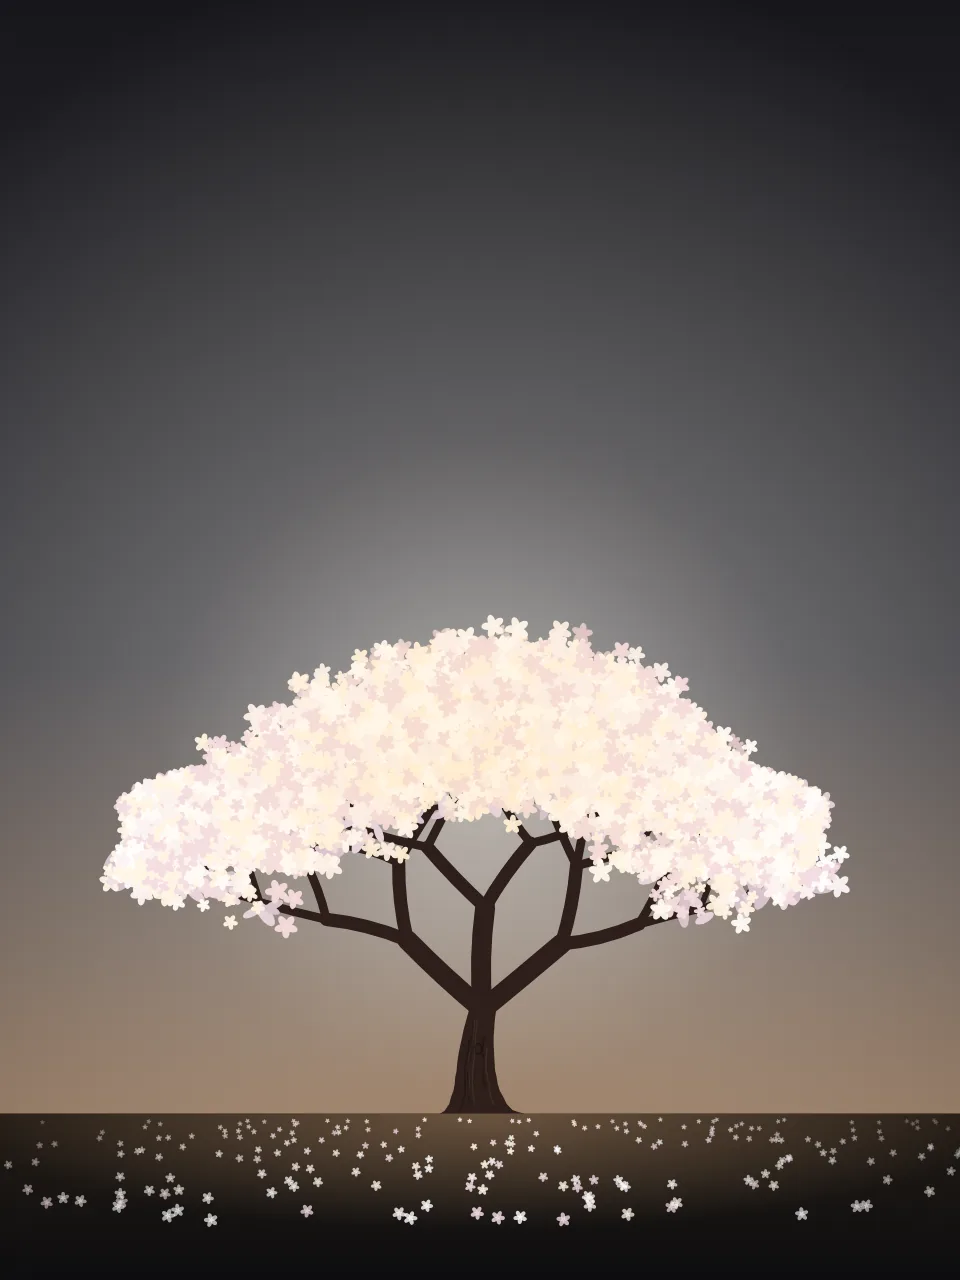
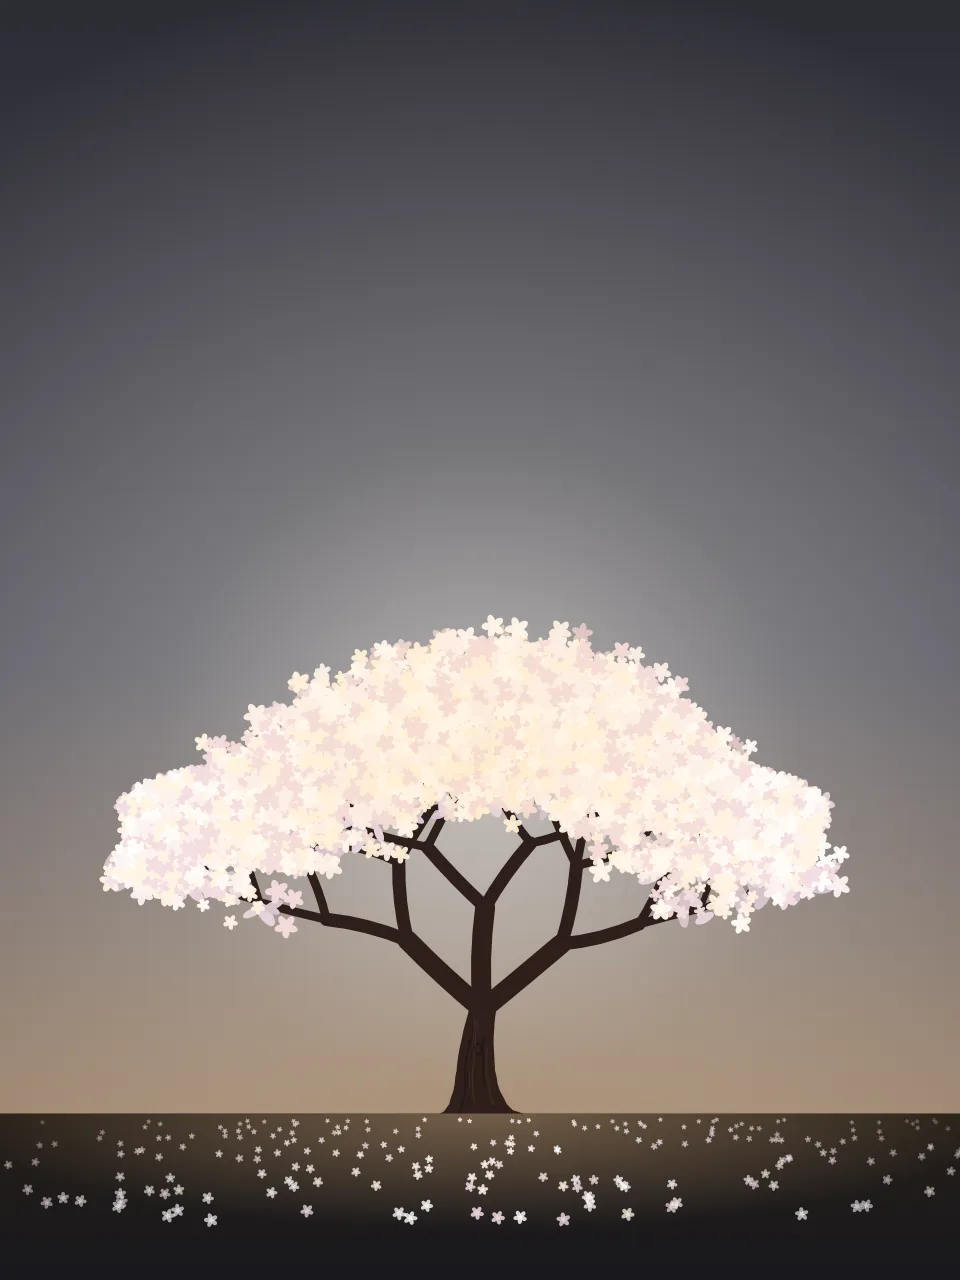
Negro y Blanco bien distintos: Negro de día con cielo casi negro (portada con letra clara); Blanco de noche en plata luminosa
Claude-Session: https://claude.ai/code/session_01Q7t98yhsy4681UtzsgGtic

Changed region(s): [[0.0, 0.0, 1.0, 0.5938], [0.7812, 0.3125, 0.8125, 0.3438], [0.1562, 0.3125, 0.1875, 0.3438]]

diff --git a/public/js/tree.js b/public/js/tree.js
@@ -19,11 +19,11 @@
     Amarillo: { name: 'Lapacho amarillo', sci: 'Handroanthus albus', accent: '#f7cf55', mid: '#c99a10', ink: ['#e8a90c', '#f5c518'],
       bg: { top: '#221808', mid: '#40300f', low: '#573b0f', warm: '#d08a14' }, day: { top: '#efd58d', mid: '#f8e8bb', low: '#fcf4dc', warm: '#ffcf70' }, glow: '#f9cf62', bark: '#2d1f1b' },
     Blanco: { name: 'Lapacho blanco', sci: 'Tabebuia roseoalba', accent: '#f4ebf6', mid: '#b9a8c0', ink: ['#e9cfdb', '#fbf1f5'],
-      bg: { top: '#17171b', mid: '#2e2e35', low: '#403f46', warm: '#9c7a5c' }, day: { top: '#a7a6aa', mid: '#cfcdcf', low: '#ecebea', warm: '#f6dcc2' }, glow: '#f1ece4', bark: '#2d1f1b' },
+      bg: { top: '#2c2c34', mid: '#4b4b55', low: '#63626b', warm: '#a8896a' }, day: { top: '#a7a6aa', mid: '#cfcdcf', low: '#ecebea', warm: '#f6dcc2' }, glow: '#f1ece4', bark: '#2d1f1b' },
     Verde: { name: 'Árbol en hoja nueva', sci: '', accent: '#98d878', mid: '#4e9a3b', ink: ['#4e9a3b', '#86c25a'],
       bg: { top: '#07201a', mid: '#0f3a2c', low: '#175038', warm: '#9a7a1c' }, day: { top: '#a9d8be', mid: '#d3ebdc', low: '#ecf6ef', warm: '#ffe9a6' }, glow: '#74cf8a', bark: '#2d1f1b' },
     Negro: { name: 'Silueta al atardecer', sci: '', accent: '#e3cfa2', mid: '#8c7b5c', ink: ['#a8997f', '#e3cfa2'],
-      bg: { top: '#09080d', mid: '#16131c', low: '#241d26', warm: '#7a4a1c' }, day: { top: '#7f7a80', mid: '#b2adb0', low: '#e2dedb', warm: '#e8c08e' }, glow: '#9a6a3c', bark: '#0a0608' },
+      bg: { top: '#09080d', mid: '#16131c', low: '#241d26', warm: '#7a4a1c' }, day: { top: '#8a868c', mid: '#b4b0b3', low: '#e2dedb', warm: '#e8c08e' }, daySky: { top: '#141216', mid: '#2c292f', low: '#5e5862', warm: '#e2a866' }, glow: '#9a6a3c', bark: '#0a0608' },
   };
 
   // Flor sola en SVG, para el progreso del año y el tablero.

diff --git a/public/css/app.css b/public/css/app.css
@@ -572,3 +572,19 @@ a.btn{text-decoration:none;}
 .week-color{font-weight:500;white-space:nowrap;}
 .week-dates{white-space:nowrap;}
 :root[data-theme="day"] .week-dot{border-color:rgba(13,9,18,.55);box-shadow:none;}
+
+/* Portada de día con cielo oscuro (semana negra): vuelve la letra clara y el velo oscuro de la noche */
+:root[data-theme="day"][data-sky="dark"] .hero{color:#fff;}
+:root[data-theme="day"][data-sky="dark"] .hero::after{background:linear-gradient(to bottom,rgba(14,12,18,.6),transparent 30%),linear-gradient(to top,rgba(14,12,18,.85),transparent 30%);}
+:root[data-theme="day"][data-sky="dark"] :is(.logo-slogan,.header-date small,.week-eyebrow,.tree-name){color:rgba(255,255,255,.85);}
+:root[data-theme="day"][data-sky="dark"] .dim-ico{color:rgba(255,255,255,.92);}
+:root[data-theme="day"][data-sky="dark"] .dim.is-eval .dim-ico{filter:drop-shadow(0 0 2px rgba(255,215,0,.95)) drop-shadow(0 0 8px rgba(240,168,48,.75));}
+:root[data-theme="day"][data-sky="dark"] .dim.is-eval::after{background:var(--gold);}
+:root[data-theme="day"][data-sky="dark"] .dim-glow{background:rgba(255,255,255,.08);}
+:root[data-theme="day"][data-sky="dark"] .dim-cap{background:rgba(20,16,24,.55);}
+:root[data-theme="day"][data-sky="dark"] .dim-cap-dim{color:rgba(255,255,255,.85);}
+:root[data-theme="day"][data-sky="dark"] .dim-cap-word{color:#fff;}
+:root[data-theme="day"][data-sky="dark"] :is(.dim-cap-tag,.cap-go){color:var(--gold-hi);border-bottom-color:rgba(255,215,0,.5);}
+:root[data-theme="day"][data-sky="dark"] :is(.nav-btn,.today-btn,.theme-btn){background:rgba(20,16,24,.45);color:#fff;}
+:root[data-theme="day"][data-sky="dark"] .signature{color:rgba(255,255,255,.85);}
+:root[data-theme="day"][data-sky="dark"] .week-dot{border-color:rgba(255,255,255,.75);}

diff --git a/tools/tree-render.js b/tools/tree-render.js
@@ -26,7 +26,7 @@
   // mode 'day': cielo de mañana del mismo color (claro, con el sol bajo y tibio); por defecto, el de la noche.
   const skyOf = (name, mode) => {
     const t = T[name] || T.Lila;
-    const b = mode === 'day' && t.day ? t.day : t.bg;
+    const b = mode === 'day' ? (t.daySky || t.day || t.bg) : t.bg;   // daySky: cielo de la imagen distinto del fondo de la página
     return { top: b.top, mid: b.mid, low: b.low, glow: mode === 'day' ? '#fff6dc' : t.glow, warm: b.warm, bark: t.bark, day: mode === 'day' };
   };
   const rgbOf = (hex) => { const n = parseInt(hex.slice(1), 16); return [(n >> 16) & 255, (n >> 8) & 255, n & 255]; };

diff --git a/public/js/app.js b/public/js/app.js
@@ -430,6 +430,8 @@
       'color-mix(in srgb,' + tr.accent + ' 55%,#ffffff)', 'color-mix(in srgb,' + tr.mid + ' 70%,#000000)'];
     dayTints.forEach((v, i) => root.setProperty('--d' + (i + 1), v));
     const day = themeNow() === 'day';
+    // Semana negra de día: el cielo de la portada es oscuro, así que la portada usa letra clara.
+    document.documentElement.dataset.sky = day && treeOf(t.name).daySky ? 'dark' : '';
     const bg = (day && treeOf(t.name).day) || treeOf(t.name).bg;
     root.setProperty('--bg-top', bg.top);
     root.setProperty('--bg-mid', bg.mid);

diff --git a/public/sw.js b/public/sw.js
@@ -1,7 +1,7 @@
 // Service worker: guarda la app para abrirla sin conexión.
 // Red primero (así siempre ves la última versión publicada), caché si no hay red.
 // Nunca se guarda /api/: el contenido y los registros viajan con la clave y se guardan en la app.
-const CACHE = 'sunset-v55';
+const CACHE = 'sunset-v56';
 const SHELL = [
   './',
   'index.html',
